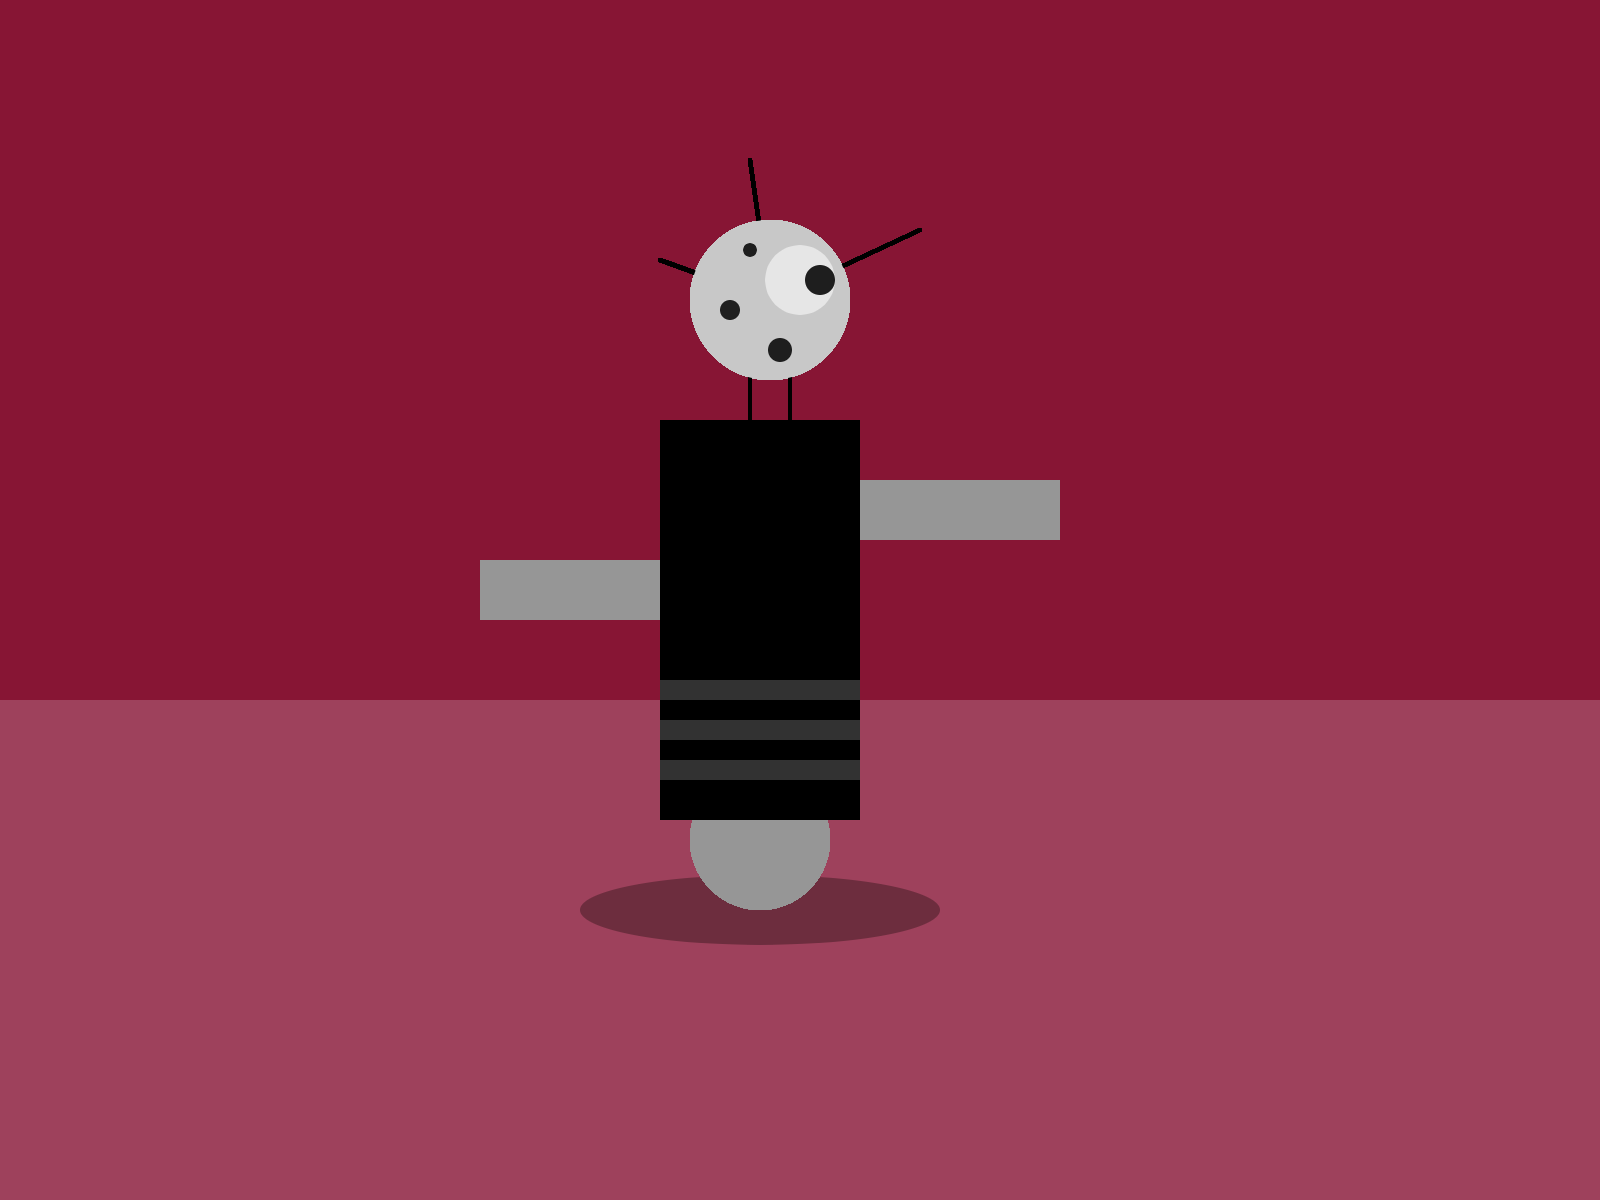
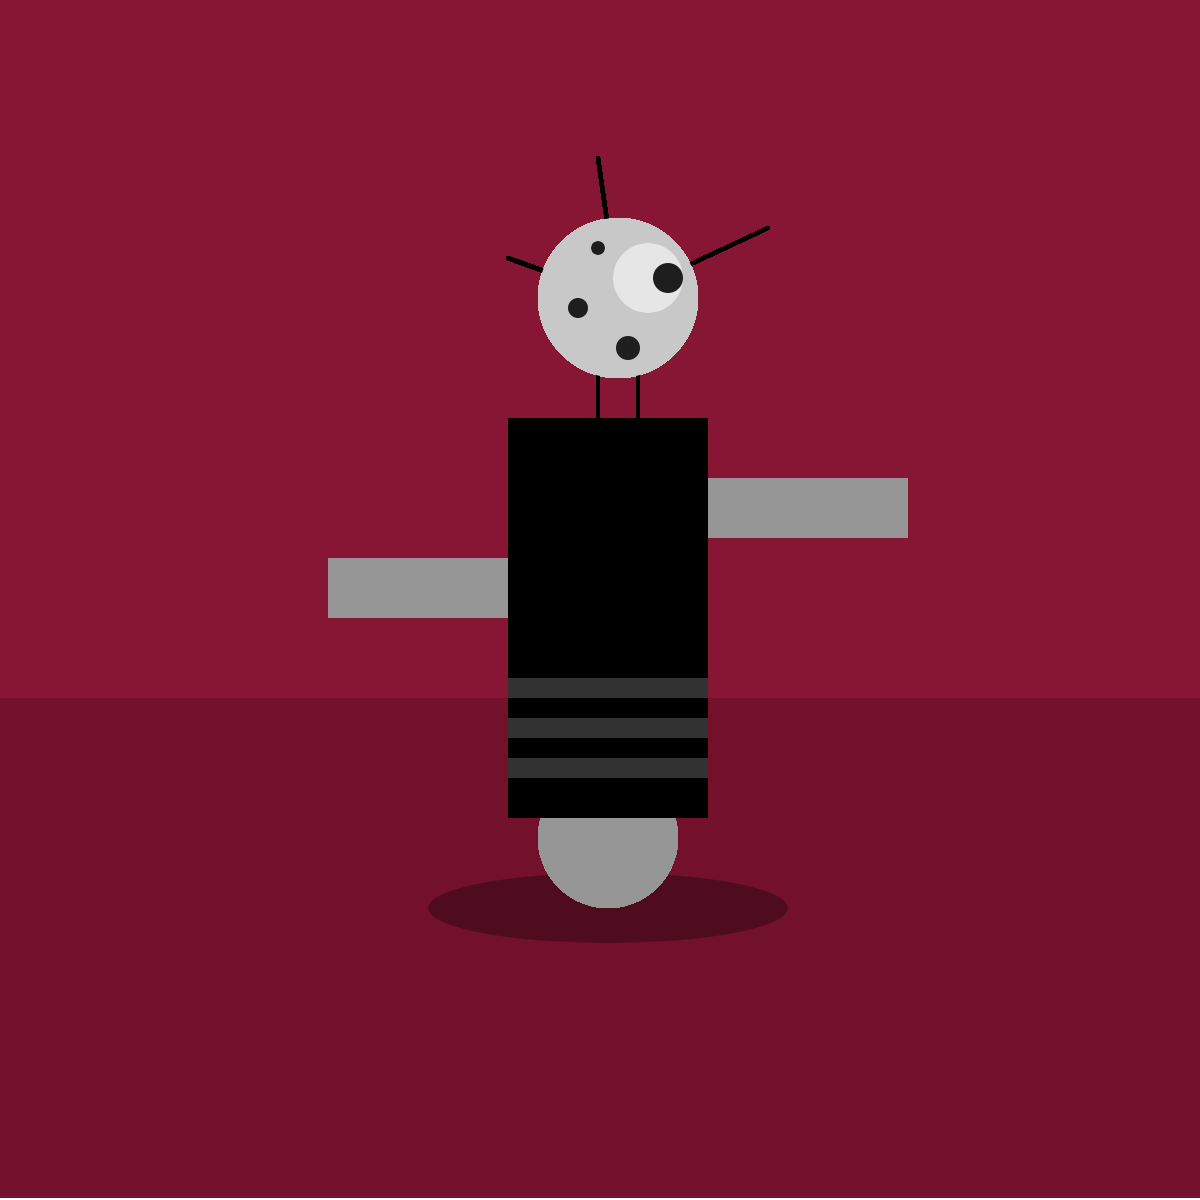
Add files via upload

diff --git a/sketch.js b/sketch.js
@@ -5,7 +5,7 @@ function setup() {
   // Sfondo
   background('#891233');
   noStroke();
-  fill(0,0,0,30);
+  fill(0,0,0,40);
   rect(0, height/2+50, width, height/2-50);
 
   // Shadow
